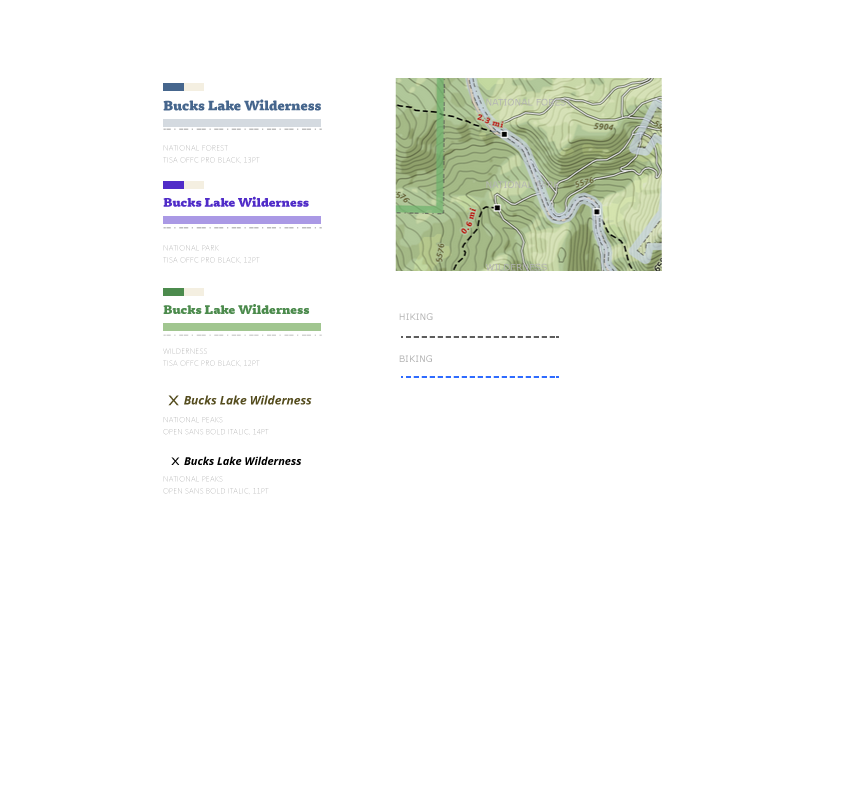
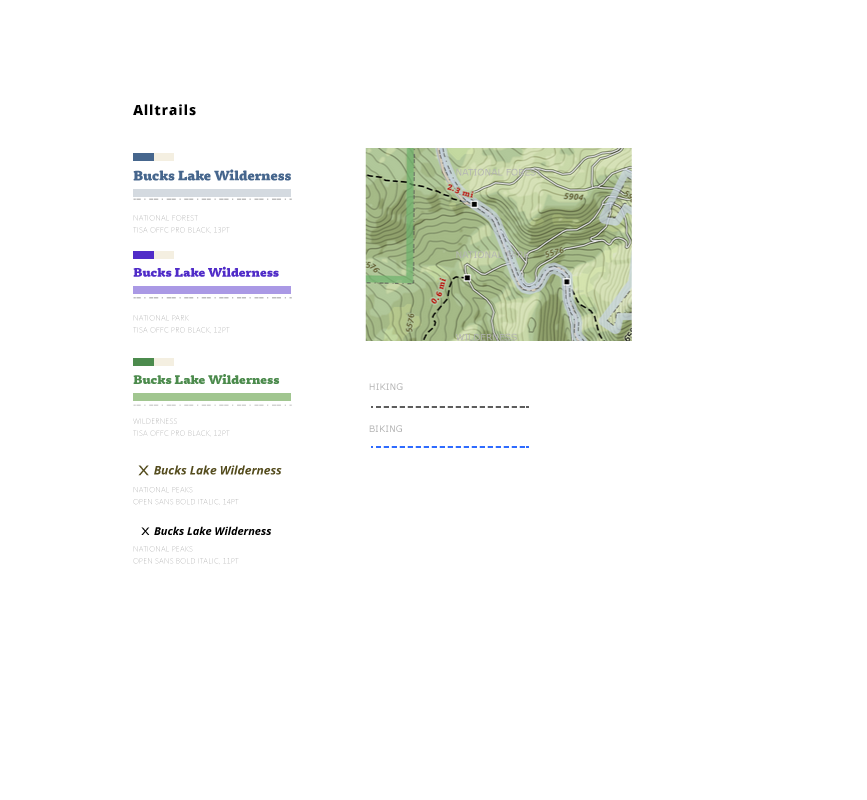
version 3

diff --git a/designerascartographer/index.html b/designerascartographer/index.html
@@ -23,17 +23,14 @@
 <!-- START PRESENTATION -->
 <div><img src='images/go-poster_sm.jpg' /></div>
 <div><img src='images/photo_place.jpg' /></div>
-
 <div><img src='images/map-science.jpg' /></div>
 <div><img src='images/define_cartography.png' /></div>
 
 <div><em>Cartographer's Checklist:</em><br>
-<ul>
-<li>What is the purpose of the map?</li>
+<ul><li>What is the purpose of the map?</li>
 <li>Who is the audience?</li>
 <li>What are the format and scale?</li>
-<li>How will the map be produced and reproduced?</li>
-</ul>
+<li>How will the map be produced and reproduced?</li></ul>
 </div>
 
 <div>Another key player in <br><em>map design...</em></div>
@@ -41,65 +38,58 @@
 <div><img src='images/data-street-vt.png' /></div>
 <div><img src='images/data-vt.jpg' /></div>
 
-<div>what i talk about when i talk about <br><em>(graphic) design</em></div>
-
+<div>what i talk about when i talk about <br><em>graphic design</em></div>
 <div><img src='images/define_graphic.png' /></div>
 <div><img src='images/define_graphic-design.png' /></div>
 <div><img src='images/define_complete-gd.png' /></div>
-
-<div><em>giving visual form to an action, intention, or material object.</em></div>
-
+<div>giving <em>visual form</em> to an <em>action, intention, or material object.</em></div>
 <div><img src='images/cool.gif' /></div>
 <div><img src='images/terrifying.gif' /></div>
 
-<div><em>maps serve a function</em></div>
-
-<div>... isn't graphic design all about making things <em>beautiful?</em></div>
+<div><em>maps</em> serve a <em>function</em></div>
+<div>... isn't <em>graphic design</em> all about making things <em>beautiful?</em></div>
 <div>can't we have <em>beauty and usability?</em></div>
-<div>form = function</div>
+<div><em>form</em> = <em>function</em></div>
 
 
 <div>Elements of good design: <br>
 <ul><li>Hierachy</li>
-<li>Form</li>
-<li>Color</li>
-<li>Texture</li>
-<li>Typography</li></ul>
+<li>Color/Texture</li>
+<li>Typography</li>
+<li>Narrative</li></ul>
+
+<notes>
+Goals of map design...<br> - Tyner, Introduction to Thematic Cartography
+Clarity
+Order
+Balance
+Contrast
+Unity
+</notes>
+
 </div>
 
-<div><img src='images/photo_place.jpg' /><em>Narrative</em></div>
+<div><img src='images/photo_place.jpg' /></div>
+<div>giving <em>visual form</em> to an action, intention, material object, or <em>narrative.</em></div>
 
-<div>var data;<br>var narrative;<br><em>data == narrative;</em></div>
-<div>var inspiration;<br>var narrative;<br><em>inspiration == narrative;</em></div>
-
-<!--
-<div>Goals of map design...<br> - Tyner, Introduction to Thematic Cartography</div>
-<div>Clarity</div>
-<div>Order</div>
-<div>Balance</div>
-<div>Contrast</div>
-<div>Unity</div>
--->
+<div><pre><em>data == narrative;</em></pre></div>
+<div><pre><em>inspiration == narrative;</em></pre></div>
+<div><pre><em>design == narrative;</em></pre></div>
 
 
 <div>Let's look at some examples:</div>
 
 <div>Alltrails</div>
-<div><img src='images/AT1.png' /></div>
+<div><img src='images/alltrails_stylesheet.png' /></div>
 <div><img src='images/AT_layer-transition1.png' /></div>
 <div><img src='images/AT_layer-transition2.png' /></div>
+<div><img src='images/AT1.png' /></div>
 <div><img src='images/AT_mtrainer2.png' /></div>
 <div><img src='images/AT_mtrainer.png' /></div>
 <div><img src='images/AT_mtrainer3.png' /></div>
 <div><img src='images/AT_trailshot1.png' /></div>
 <div><img src='images/AT_trailshot2.png' /></div>
 
-<!--
-<div>Features: traditional cartographic textures</div>
-<div>Color, Pattern, and Texture</div>
-<div>Usablitity: road hierachy</div>
-<div>Typography</div>
--->
 
 <div><img src='images/AT_UI1.png' /></div>
 <div><img src='images/AT_UI3.png' /></div>
@@ -107,18 +97,11 @@
 <div><img src='images/AT_nice-view.png' /></div>
 <div><img src='images/AT_zoom-by-zoom-styling.png' /></div>
 
-<!--
-<div>Map data: global lift</div>
-<div>Open source datasets</div>
-<div>Combining data in QGIS and ogr2ogr</div>
-<div>Advanced PostGIS and SQL queries</div>
-<div>Vector tiles for compact global coverage</div>
+<div>Print possiblities</div>
+<div><img src='images/NACIS-swag.png' /></div>
 
-alltrails_stylesheet.png
-
--->
-
-<div>Blueprint</div>
+<div><img src='images/blueprint-inspration2.jpg' /><notes>Senior illustrator Rick Sternbach, Star Trek: The Next Generation design team</notes></div>
+<div><img src='images/blueprint6.png' /></div>
 <div><img src='images/blueprint1.png' /></div>
 <div><img src='images/blueprint2.png' /></div>
 <div><img src='images/blueprint3.png' /></div>
@@ -126,36 +109,35 @@ alltrails_stylesheet.png
 <div><img src='images/blueprint5.png' /></div>
 <div><img src='images/blueprint_colors.png' /></div>
 
-<!--
-<div>Inspiration (themes)</div>
-<div>Color, Pattern</div>
-<div>Typography</div>
-<div>Hierachy</div>
-<div>Transition (web)</div>
-<div>Usability (beauty)</div>
--->
+<div>WebGL possiblities</div>
+<div><img src='images/blueprint-GL.gif' /></div>
 
-<div><em>space between print and web</em></div>
 
-<div><em>paper === screen</em></div>
+<div>space between <em>print and web and tools</em></div>
+<div><img src='images/whynotboth.gif' /></div>
+
 
 <div><img src='images/graphic-design-is.png' /></div>
 <div><img src='images/thesis_craft.png' /></div>
 <div><img src='images/thesis_device.jpg' /></div>
+<div><img src='images/thesis_construction.jpg' /></div>
 <div><img src='images/thesis_breathe.png' /></div>
 <div><img src='images/thesis2.png' /></div>
+<div><img src='images/whois-graphicdesigner.gif' /><em>this is graphic design.</em></div>
 
-<div>design for both <em>digital + physical</em></div>
+<div>...design for <em>(m)any outcomes</em></div>
+
+<div>Keys to design: <br>
+<ul><li>Hierachy</li>
+<li>Color/Texture</li>
+<li>Typography</li>
+<li><em>Narrative</em></li></ul></div>
+
+<div>give <em>visual form</em> to an action, intention, material object, or narrative.</div>
+
 <div><img src='images/go-for-it.gif' /></div>
 
-
-<div>Elements of good design: <br>
-<ul><li>Hierachy</li>
-<li>Form</li>
-<li>Color</li>
-<li>Texture</li>
-<li>Typography</li></ul>
-
+<!--
 <div><em>Cartographer's checklist:</em><br>
 <ul><li>What is the purpose of the map?</li>
 <li>Who is the audience?</li>
@@ -170,20 +152,20 @@ alltrails_stylesheet.png
 <li>How will the map be produced and reproduced?</li>
 <li>How will you acquire your map data?</li></ul>
 </div>
+-->
 
 <div>Tools:<br>
-<ul><li>Mapbox Studio</li>
-<li>Mapbox GL JS</li>
-<li>Mapbox Studio Classic</li>
-<li>Mapbox Studio Classic - Image export</li>
-<li>PostGIS Manual</li>
-<li>PostgreSQL / PostGIS</li></ul>
+<ul><li><a href='https://www.mapbox.com/maps/#mapbox-gl'>Mapbox Studio</a></li>
+<li><a href='https://www.mapbox.com/mapbox-gl-js/api/'>Mapbox GL JS</a></li>
+<li><a href='https://www.mapbox.com/mapbox-studio-classic/#darwin'>Mapbox Studio Classic</a></li>
+<li><a href='https://www.mapbox.com/blog/web-to-canvas-print/'>Web to Print with Mapbox Studio Classic</a></li>
+<li><a href='https://www.mapbox.com/guides/postgis-manual/'>PostGIS Manual</a></li>
 </div>
 
 
 <!-- OUTRO -->
 <div>thanks for listening.</div>
-<div><em>go be designers.</em></div>
+<div><em>happy mapping!</em></div>
 <div><em>@amyleew</em> designer <em>@mapbox</em></div>
 <!-- THE END -->
 

diff --git a/designerascartographer/big.css b/designerascartographer/big.css
@@ -84,3 +84,15 @@ notes {
     outline: 0;
 }
 
+pre {
+    margin:0;
+    padding:0.2em;
+    background:#fff;
+    color:#000;
+    font-weight:normal;
+}
+
+pre em {
+    color:#000;
+    background:yellow;
+}
